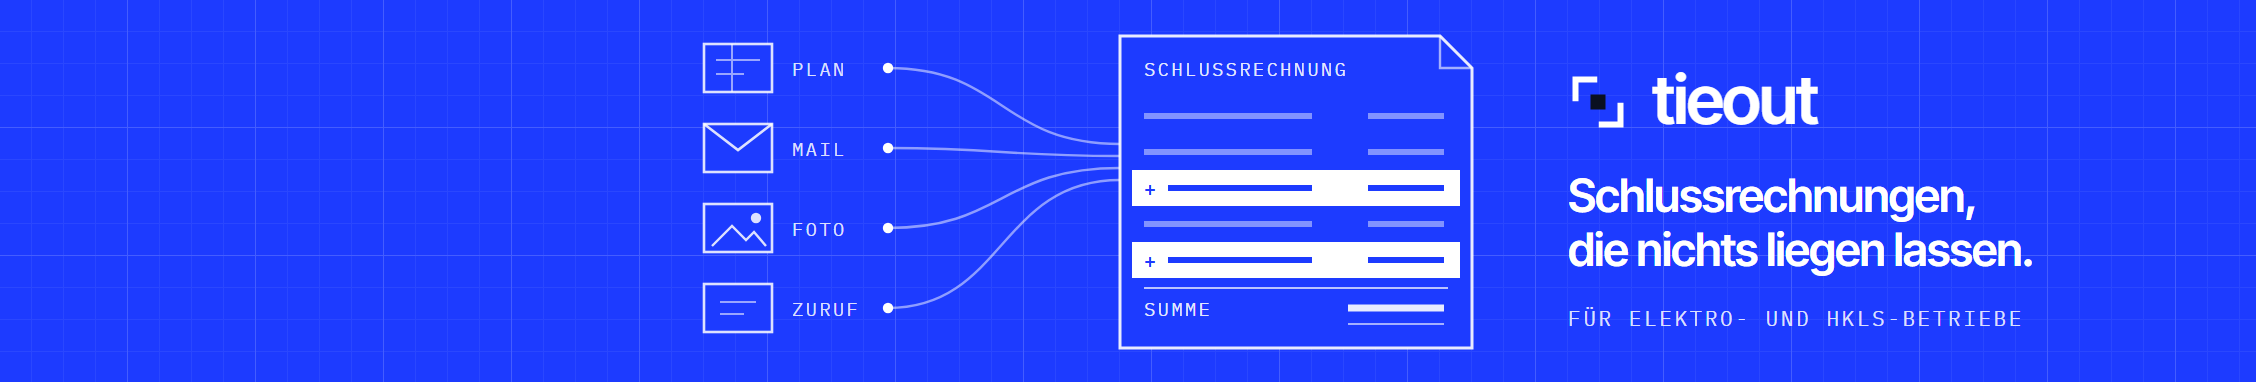
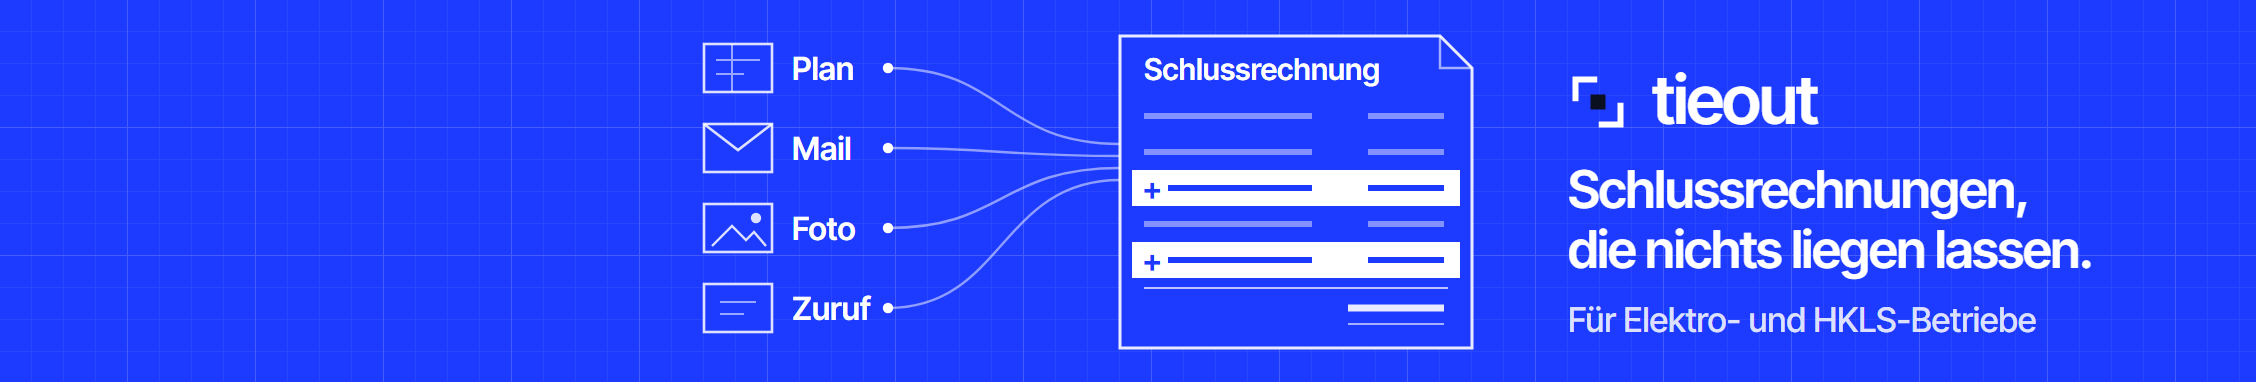
Gleiche Abstände zwischen allen Abschnitten (Hero angeglichen), LinkedIn-Upload-Dateien mit lesbarer Schrift
- Hero unten mit demselben Abstand wie alle Abschnitte
- LinkedIn: Logo auf reinem Weiß (400 und 1200 px), Titelbild 4512 x 764 weiß und blau
- Titelbild ohne feine Mono-Schrift, Texte in Inter Tight halbfett

diff --git a/brand/linkedin/tieout_firmenseite_rechnung_blau.html b/brand/linkedin/tieout_firmenseite_rechnung_blau.html
@@ -1,4 +1,4 @@
-<!doctype html><html><head><meta charset="utf-8"><link href="https://fonts.googleapis.com/css2?family=Inter+Tight:wght@600&family=IBM+Plex+Mono:wght@400;500&display=block" rel="stylesheet">
+<!doctype html><html><head><meta charset="utf-8"><link href="https://fonts.googleapis.com/css2?family=Inter+Tight:wght@500;600&family=IBM+Plex+Mono:wght@400;500&display=block" rel="stylesheet">
 <style>html,body{margin:0;padding:0} svg{display:block}</style></head>
 <body><svg xmlns="http://www.w3.org/2000/svg" width="1128" height="191" viewBox="0 0 1128 191"><rect width="1128" height="191" fill="#1D3BFF"/>
   <defs>
@@ -6,9 +6,9 @@
     <pattern id="g2" width="64" height="64" patternUnits="userSpaceOnUse"><path d="M64 0V64H0" fill="none" stroke="#FFFFFF" stroke-opacity=".12"/></pattern>
   </defs>
   <rect width="1128" height="191" fill="url(#g1)"/><rect width="1128" height="191" fill="url(#g2)"/>
-  <rect x="352" y="22" width="34" height="24" fill="#1D3BFF" stroke="#FFFFFF" stroke-opacity=".85" stroke-width="1.3"/><rect x="352" y="62" width="34" height="24" fill="#1D3BFF" stroke="#FFFFFF" stroke-opacity=".85" stroke-width="1.3"/><rect x="352" y="102" width="34" height="24" fill="#1D3BFF" stroke="#FFFFFF" stroke-opacity=".85" stroke-width="1.3"/><rect x="352" y="142" width="34" height="24" fill="#1D3BFF" stroke="#FFFFFF" stroke-opacity=".85" stroke-width="1.3"/><path d="M358 30H380M358 37H372M366 22V46" fill="none" stroke="#FFFFFF" stroke-opacity="0.55" stroke-width="1" /><path d="M352 62L369 75L386 62" fill="none" stroke="#FFFFFF" stroke-opacity="0.85" stroke-width="1.3" /><path d="M356 123L366 113L373 120L377 116L383 123" fill="none" stroke="#FFFFFF" stroke-opacity="0.85" stroke-width="1.2" /><circle cx="378" cy="109" r="2.6" fill="#FFFFFF" fill-opacity=".85"/><path d="M360 151H378M360 157H372" fill="none" stroke="#FFFFFF" stroke-opacity="0.55" stroke-width="1" /><text x="396" y="38" text-anchor="start" font-family="IBM Plex Mono" font-size="9.5" letter-spacing="1.1" fill="#FFFFFF" fill-opacity="0.85">PLAN</text><text x="396" y="78" text-anchor="start" font-family="IBM Plex Mono" font-size="9.5" letter-spacing="1.1" fill="#FFFFFF" fill-opacity="0.85">MAIL</text><text x="396" y="118" text-anchor="start" font-family="IBM Plex Mono" font-size="9.5" letter-spacing="1.1" fill="#FFFFFF" fill-opacity="0.85">FOTO</text><text x="396" y="158" text-anchor="start" font-family="IBM Plex Mono" font-size="9.5" letter-spacing="1.1" fill="#FFFFFF" fill-opacity="0.85">ZURUF</text><path d="M444 34 C 502 34, 500 72, 560 72" fill="none" stroke="#FFFFFF" stroke-opacity="0.5" stroke-width="1.2" /><circle cx="444" cy="34" r="2.6" fill="#FFFFFF"/><path d="M444 74 C 502 74, 500 78, 560 78" fill="none" stroke="#FFFFFF" stroke-opacity="0.5" stroke-width="1.2" /><circle cx="444" cy="74" r="2.6" fill="#FFFFFF"/><path d="M444 114 C 502 114, 500 84, 560 84" fill="none" stroke="#FFFFFF" stroke-opacity="0.5" stroke-width="1.2" /><circle cx="444" cy="114" r="2.6" fill="#FFFFFF"/><path d="M444 154 C 502 154, 500 90, 560 90" fill="none" stroke="#FFFFFF" stroke-opacity="0.5" stroke-width="1.2" /><circle cx="444" cy="154" r="2.6" fill="#FFFFFF"/><path d="M560 18H720L736 34V174H560Z" fill="#1D3BFF" stroke="#FFFFFF" stroke-opacity=".9" stroke-width="1.5"/><path d="M720 18V34H736" fill="none" stroke="#FFFFFF" stroke-opacity="0.6" stroke-width="1.2" /><text x="572" y="38" text-anchor="start" font-family="IBM Plex Mono" font-size="9.5" letter-spacing="1.1" fill="#FFFFFF" fill-opacity="0.9">SCHLUSSRECHNUNG</text><path d="M572 58H656M684 58H722" fill="none" stroke="#FFFFFF" stroke-opacity="0.45" stroke-width="3" /><path d="M572 76H656M684 76H722" fill="none" stroke="#FFFFFF" stroke-opacity="0.45" stroke-width="3" /><rect x="566" y="85" width="164" height="18" fill="#FFFFFF"/><text x="572" y="98" font-family="IBM Plex Mono" font-size="10" font-weight="500" fill="#1D3BFF">+</text><path d="M584 94H656M684 94H722" stroke="#1D3BFF" stroke-width="3"/><path d="M572 112H656M684 112H722" fill="none" stroke="#FFFFFF" stroke-opacity="0.45" stroke-width="3" /><rect x="566" y="121" width="164" height="18" fill="#FFFFFF"/><text x="572" y="134" font-family="IBM Plex Mono" font-size="10" font-weight="500" fill="#1D3BFF">+</text><path d="M584 130H656M684 130H722" stroke="#1D3BFF" stroke-width="3"/><path d="M572 144H724" fill="none" stroke="#FFFFFF" stroke-opacity="0.7" stroke-width="1" /><text x="572" y="158" text-anchor="start" font-family="IBM Plex Mono" font-size="9.5" letter-spacing="1.1" fill="#FFFFFF" fill-opacity="0.9">SUMME</text><path d="M674 154H722" fill="none" stroke="#FFFFFF" stroke-opacity="0.9" stroke-width="3.5" /><path d="M674 162H722" fill="none" stroke="#FFFFFF" stroke-opacity="0.6" stroke-width="1" />
+  <rect x="352" y="22" width="34" height="24" fill="#1D3BFF" stroke="#FFFFFF" stroke-opacity=".85" stroke-width="1.3"/><rect x="352" y="62" width="34" height="24" fill="#1D3BFF" stroke="#FFFFFF" stroke-opacity=".85" stroke-width="1.3"/><rect x="352" y="102" width="34" height="24" fill="#1D3BFF" stroke="#FFFFFF" stroke-opacity=".85" stroke-width="1.3"/><rect x="352" y="142" width="34" height="24" fill="#1D3BFF" stroke="#FFFFFF" stroke-opacity=".85" stroke-width="1.3"/><path d="M358 30H380M358 37H372M366 22V46" fill="none" stroke="#FFFFFF" stroke-opacity="0.55" stroke-width="1" /><path d="M352 62L369 75L386 62" fill="none" stroke="#FFFFFF" stroke-opacity="0.85" stroke-width="1.3" /><path d="M356 123L366 113L373 120L377 116L383 123" fill="none" stroke="#FFFFFF" stroke-opacity="0.85" stroke-width="1.2" /><circle cx="378" cy="109" r="2.6" fill="#FFFFFF" fill-opacity=".85"/><path d="M360 151H378M360 157H372" fill="none" stroke="#FFFFFF" stroke-opacity="0.55" stroke-width="1" /><text x="396" y="40" font-family="Inter Tight" font-weight="600" font-size="16" fill="#FFFFFF">Plan</text><text x="396" y="80" font-family="Inter Tight" font-weight="600" font-size="16" fill="#FFFFFF">Mail</text><text x="396" y="120" font-family="Inter Tight" font-weight="600" font-size="16" fill="#FFFFFF">Foto</text><text x="396" y="160" font-family="Inter Tight" font-weight="600" font-size="16" fill="#FFFFFF">Zuruf</text><path d="M444 34 C 502 34, 500 72, 560 72" fill="none" stroke="#FFFFFF" stroke-opacity="0.5" stroke-width="1.2" /><circle cx="444" cy="34" r="2.6" fill="#FFFFFF"/><path d="M444 74 C 502 74, 500 78, 560 78" fill="none" stroke="#FFFFFF" stroke-opacity="0.5" stroke-width="1.2" /><circle cx="444" cy="74" r="2.6" fill="#FFFFFF"/><path d="M444 114 C 502 114, 500 84, 560 84" fill="none" stroke="#FFFFFF" stroke-opacity="0.5" stroke-width="1.2" /><circle cx="444" cy="114" r="2.6" fill="#FFFFFF"/><path d="M444 154 C 502 154, 500 90, 560 90" fill="none" stroke="#FFFFFF" stroke-opacity="0.5" stroke-width="1.2" /><circle cx="444" cy="154" r="2.6" fill="#FFFFFF"/><path d="M560 18H720L736 34V174H560Z" fill="#1D3BFF" stroke="#FFFFFF" stroke-opacity=".9" stroke-width="1.5"/><path d="M720 18V34H736" fill="none" stroke="#FFFFFF" stroke-opacity="0.6" stroke-width="1.2" /><text x="572" y="40" font-family="Inter Tight" font-weight="600" font-size="15" fill="#FFFFFF">Schlussrechnung</text><path d="M572 58H656M684 58H722" fill="none" stroke="#FFFFFF" stroke-opacity="0.45" stroke-width="3" /><path d="M572 76H656M684 76H722" fill="none" stroke="#FFFFFF" stroke-opacity="0.45" stroke-width="3" /><rect x="566" y="85" width="164" height="18" fill="#FFFFFF"/><text x="571" y="100" font-family="Inter Tight" font-size="16" font-weight="700" fill="#1D3BFF">+</text><path d="M584 94H656M684 94H722" stroke="#1D3BFF" stroke-width="3"/><path d="M572 112H656M684 112H722" fill="none" stroke="#FFFFFF" stroke-opacity="0.45" stroke-width="3" /><rect x="566" y="121" width="164" height="18" fill="#FFFFFF"/><text x="571" y="136" font-family="Inter Tight" font-size="16" font-weight="700" fill="#1D3BFF">+</text><path d="M584 130H656M684 130H722" stroke="#1D3BFF" stroke-width="3"/><path d="M572 144H724" fill="none" stroke="#FFFFFF" stroke-opacity="0.7" stroke-width="1" /><path d="M674 154H722" fill="none" stroke="#FFFFFF" stroke-opacity="0.9" stroke-width="3.5" /><path d="M674 162H722" fill="none" stroke="#FFFFFF" stroke-opacity="0.6" stroke-width="1" />
   <g transform="translate(784,36) scale(0.9375)"><path d="M4 14V4h10M28 18v10H18" stroke="#FFFFFF" stroke-width="3.2" fill="none" stroke-linecap="square"/><rect x="12" y="12" width="8" height="8" fill="#0A1020"/></g>
   <text x="826" y="62" font-family="Inter Tight" font-weight="600" font-size="34" letter-spacing="-1" fill="#FFFFFF">tieout</text>
-  <text x="784" y="106" font-family="Inter Tight" font-weight="600" font-size="23" letter-spacing="-.5" fill="#FFFFFF">Schlussrechnungen,</text>
-  <text x="784" y="133" font-family="Inter Tight" font-weight="600" font-size="23" letter-spacing="-.5" fill="#FFFFFF">die nichts liegen lassen.</text>
-  <text x="784" y="163" font-family="IBM Plex Mono" font-size="10.5" letter-spacing="1.3" fill="#FFFFFF" fill-opacity=".85">FÜR ELEKTRO- UND HKLS-BETRIEBE</text></svg></body></html>
+  <text x="784" y="104" font-family="Inter Tight" font-weight="600" font-size="26" letter-spacing="-.6" fill="#FFFFFF">Schlussrechnungen,</text>
+  <text x="784" y="134" font-family="Inter Tight" font-weight="600" font-size="26" letter-spacing="-.6" fill="#FFFFFF">die nichts liegen lassen.</text>
+  <text x="784" y="166" font-family="Inter Tight" font-weight="500" font-size="17" fill="#FFFFFF" fill-opacity=".85">Für Elektro- und HKLS-Betriebe</text></svg></body></html>

diff --git a/brand/linkedin/tieout_firmenseite_rechnung_weiss.html b/brand/linkedin/tieout_firmenseite_rechnung_weiss.html
@@ -1,4 +1,4 @@
-<!doctype html><html><head><meta charset="utf-8"><link href="https://fonts.googleapis.com/css2?family=Inter+Tight:wght@600&family=IBM+Plex+Mono:wght@400;500&display=block" rel="stylesheet">
+<!doctype html><html><head><meta charset="utf-8"><link href="https://fonts.googleapis.com/css2?family=Inter+Tight:wght@500;600&family=IBM+Plex+Mono:wght@400;500&display=block" rel="stylesheet">
 <style>html,body{margin:0;padding:0} svg{display:block}</style></head>
 <body><svg xmlns="http://www.w3.org/2000/svg" width="1128" height="191" viewBox="0 0 1128 191"><rect width="1128" height="191" fill="#F4F6F9"/>
   <defs>
@@ -6,9 +6,9 @@
     <pattern id="g2" width="64" height="64" patternUnits="userSpaceOnUse"><path d="M64 0V64H0" fill="none" stroke="#0A1020" stroke-opacity=".12"/></pattern>
   </defs>
   <rect width="1128" height="191" fill="url(#g1)"/><rect width="1128" height="191" fill="url(#g2)"/>
-  <rect x="352" y="22" width="34" height="24" fill="#F4F6F9" stroke="#0A1020" stroke-opacity=".85" stroke-width="1.3"/><rect x="352" y="62" width="34" height="24" fill="#F4F6F9" stroke="#0A1020" stroke-opacity=".85" stroke-width="1.3"/><rect x="352" y="102" width="34" height="24" fill="#F4F6F9" stroke="#0A1020" stroke-opacity=".85" stroke-width="1.3"/><rect x="352" y="142" width="34" height="24" fill="#F4F6F9" stroke="#0A1020" stroke-opacity=".85" stroke-width="1.3"/><path d="M358 30H380M358 37H372M366 22V46" fill="none" stroke="#0A1020" stroke-opacity="0.55" stroke-width="1" /><path d="M352 62L369 75L386 62" fill="none" stroke="#0A1020" stroke-opacity="0.85" stroke-width="1.3" /><path d="M356 123L366 113L373 120L377 116L383 123" fill="none" stroke="#0A1020" stroke-opacity="0.85" stroke-width="1.2" /><circle cx="378" cy="109" r="2.6" fill="#0A1020" fill-opacity=".85"/><path d="M360 151H378M360 157H372" fill="none" stroke="#0A1020" stroke-opacity="0.55" stroke-width="1" /><text x="396" y="38" text-anchor="start" font-family="IBM Plex Mono" font-size="9.5" letter-spacing="1.1" fill="#0A1020" fill-opacity="0.85">PLAN</text><text x="396" y="78" text-anchor="start" font-family="IBM Plex Mono" font-size="9.5" letter-spacing="1.1" fill="#0A1020" fill-opacity="0.85">MAIL</text><text x="396" y="118" text-anchor="start" font-family="IBM Plex Mono" font-size="9.5" letter-spacing="1.1" fill="#0A1020" fill-opacity="0.85">FOTO</text><text x="396" y="158" text-anchor="start" font-family="IBM Plex Mono" font-size="9.5" letter-spacing="1.1" fill="#0A1020" fill-opacity="0.85">ZURUF</text><path d="M444 34 C 502 34, 500 72, 560 72" fill="none" stroke="#0A1020" stroke-opacity="0.5" stroke-width="1.2" /><circle cx="444" cy="34" r="2.6" fill="#0A1020"/><path d="M444 74 C 502 74, 500 78, 560 78" fill="none" stroke="#0A1020" stroke-opacity="0.5" stroke-width="1.2" /><circle cx="444" cy="74" r="2.6" fill="#0A1020"/><path d="M444 114 C 502 114, 500 84, 560 84" fill="none" stroke="#0A1020" stroke-opacity="0.5" stroke-width="1.2" /><circle cx="444" cy="114" r="2.6" fill="#0A1020"/><path d="M444 154 C 502 154, 500 90, 560 90" fill="none" stroke="#0A1020" stroke-opacity="0.5" stroke-width="1.2" /><circle cx="444" cy="154" r="2.6" fill="#0A1020"/><path d="M560 18H720L736 34V174H560Z" fill="#F4F6F9" stroke="#0A1020" stroke-opacity=".9" stroke-width="1.5"/><path d="M720 18V34H736" fill="none" stroke="#0A1020" stroke-opacity="0.6" stroke-width="1.2" /><text x="572" y="38" text-anchor="start" font-family="IBM Plex Mono" font-size="9.5" letter-spacing="1.1" fill="#0A1020" fill-opacity="0.9">SCHLUSSRECHNUNG</text><path d="M572 58H656M684 58H722" fill="none" stroke="#0A1020" stroke-opacity="0.45" stroke-width="3" /><path d="M572 76H656M684 76H722" fill="none" stroke="#0A1020" stroke-opacity="0.45" stroke-width="3" /><rect x="566" y="85" width="164" height="18" fill="#1D3BFF"/><text x="572" y="98" font-family="IBM Plex Mono" font-size="10" font-weight="500" fill="#FFFFFF">+</text><path d="M584 94H656M684 94H722" stroke="#FFFFFF" stroke-width="3"/><path d="M572 112H656M684 112H722" fill="none" stroke="#0A1020" stroke-opacity="0.45" stroke-width="3" /><rect x="566" y="121" width="164" height="18" fill="#1D3BFF"/><text x="572" y="134" font-family="IBM Plex Mono" font-size="10" font-weight="500" fill="#FFFFFF">+</text><path d="M584 130H656M684 130H722" stroke="#FFFFFF" stroke-width="3"/><path d="M572 144H724" fill="none" stroke="#0A1020" stroke-opacity="0.7" stroke-width="1" /><text x="572" y="158" text-anchor="start" font-family="IBM Plex Mono" font-size="9.5" letter-spacing="1.1" fill="#0A1020" fill-opacity="0.9">SUMME</text><path d="M674 154H722" fill="none" stroke="#0A1020" stroke-opacity="0.9" stroke-width="3.5" /><path d="M674 162H722" fill="none" stroke="#0A1020" stroke-opacity="0.6" stroke-width="1" />
+  <rect x="352" y="22" width="34" height="24" fill="#F4F6F9" stroke="#0A1020" stroke-opacity=".85" stroke-width="1.3"/><rect x="352" y="62" width="34" height="24" fill="#F4F6F9" stroke="#0A1020" stroke-opacity=".85" stroke-width="1.3"/><rect x="352" y="102" width="34" height="24" fill="#F4F6F9" stroke="#0A1020" stroke-opacity=".85" stroke-width="1.3"/><rect x="352" y="142" width="34" height="24" fill="#F4F6F9" stroke="#0A1020" stroke-opacity=".85" stroke-width="1.3"/><path d="M358 30H380M358 37H372M366 22V46" fill="none" stroke="#0A1020" stroke-opacity="0.55" stroke-width="1" /><path d="M352 62L369 75L386 62" fill="none" stroke="#0A1020" stroke-opacity="0.85" stroke-width="1.3" /><path d="M356 123L366 113L373 120L377 116L383 123" fill="none" stroke="#0A1020" stroke-opacity="0.85" stroke-width="1.2" /><circle cx="378" cy="109" r="2.6" fill="#0A1020" fill-opacity=".85"/><path d="M360 151H378M360 157H372" fill="none" stroke="#0A1020" stroke-opacity="0.55" stroke-width="1" /><text x="396" y="40" font-family="Inter Tight" font-weight="600" font-size="16" fill="#0A1020">Plan</text><text x="396" y="80" font-family="Inter Tight" font-weight="600" font-size="16" fill="#0A1020">Mail</text><text x="396" y="120" font-family="Inter Tight" font-weight="600" font-size="16" fill="#0A1020">Foto</text><text x="396" y="160" font-family="Inter Tight" font-weight="600" font-size="16" fill="#0A1020">Zuruf</text><path d="M444 34 C 502 34, 500 72, 560 72" fill="none" stroke="#0A1020" stroke-opacity="0.5" stroke-width="1.2" /><circle cx="444" cy="34" r="2.6" fill="#0A1020"/><path d="M444 74 C 502 74, 500 78, 560 78" fill="none" stroke="#0A1020" stroke-opacity="0.5" stroke-width="1.2" /><circle cx="444" cy="74" r="2.6" fill="#0A1020"/><path d="M444 114 C 502 114, 500 84, 560 84" fill="none" stroke="#0A1020" stroke-opacity="0.5" stroke-width="1.2" /><circle cx="444" cy="114" r="2.6" fill="#0A1020"/><path d="M444 154 C 502 154, 500 90, 560 90" fill="none" stroke="#0A1020" stroke-opacity="0.5" stroke-width="1.2" /><circle cx="444" cy="154" r="2.6" fill="#0A1020"/><path d="M560 18H720L736 34V174H560Z" fill="#F4F6F9" stroke="#0A1020" stroke-opacity=".9" stroke-width="1.5"/><path d="M720 18V34H736" fill="none" stroke="#0A1020" stroke-opacity="0.6" stroke-width="1.2" /><text x="572" y="40" font-family="Inter Tight" font-weight="600" font-size="15" fill="#0A1020">Schlussrechnung</text><path d="M572 58H656M684 58H722" fill="none" stroke="#0A1020" stroke-opacity="0.45" stroke-width="3" /><path d="M572 76H656M684 76H722" fill="none" stroke="#0A1020" stroke-opacity="0.45" stroke-width="3" /><rect x="566" y="85" width="164" height="18" fill="#1D3BFF"/><text x="571" y="100" font-family="Inter Tight" font-size="16" font-weight="700" fill="#FFFFFF">+</text><path d="M584 94H656M684 94H722" stroke="#FFFFFF" stroke-width="3"/><path d="M572 112H656M684 112H722" fill="none" stroke="#0A1020" stroke-opacity="0.45" stroke-width="3" /><rect x="566" y="121" width="164" height="18" fill="#1D3BFF"/><text x="571" y="136" font-family="Inter Tight" font-size="16" font-weight="700" fill="#FFFFFF">+</text><path d="M584 130H656M684 130H722" stroke="#FFFFFF" stroke-width="3"/><path d="M572 144H724" fill="none" stroke="#0A1020" stroke-opacity="0.7" stroke-width="1" /><path d="M674 154H722" fill="none" stroke="#0A1020" stroke-opacity="0.9" stroke-width="3.5" /><path d="M674 162H722" fill="none" stroke="#0A1020" stroke-opacity="0.6" stroke-width="1" />
   <g transform="translate(784,36) scale(0.9375)"><path d="M4 14V4h10M28 18v10H18" stroke="#0A1020" stroke-width="3.2" fill="none" stroke-linecap="square"/><rect x="12" y="12" width="8" height="8" fill="#1D3BFF"/></g>
   <text x="826" y="62" font-family="Inter Tight" font-weight="600" font-size="34" letter-spacing="-1" fill="#0A1020">tieout</text>
-  <text x="784" y="106" font-family="Inter Tight" font-weight="600" font-size="23" letter-spacing="-.5" fill="#0A1020">Schlussrechnungen,</text>
-  <text x="784" y="133" font-family="Inter Tight" font-weight="600" font-size="23" letter-spacing="-.5" fill="#1D3BFF">die nichts liegen lassen.</text>
-  <text x="784" y="163" font-family="IBM Plex Mono" font-size="10.5" letter-spacing="1.3" fill="#0A1020" fill-opacity=".85">FÜR ELEKTRO- UND HKLS-BETRIEBE</text></svg></body></html>
+  <text x="784" y="104" font-family="Inter Tight" font-weight="600" font-size="26" letter-spacing="-.6" fill="#0A1020">Schlussrechnungen,</text>
+  <text x="784" y="134" font-family="Inter Tight" font-weight="600" font-size="26" letter-spacing="-.6" fill="#1D3BFF">die nichts liegen lassen.</text>
+  <text x="784" y="166" font-family="Inter Tight" font-weight="500" font-size="17" fill="#0A1020" fill-opacity=".85">Für Elektro- und HKLS-Betriebe</text></svg></body></html>

diff --git a/website/app/globals.css b/website/app/globals.css
@@ -117,7 +117,8 @@ img { display: block; max-width: 100%; }
 @media (max-width: 1239px) { .mnav { display: none; } }
 
 /* Hero */
-.hero { min-height: 100vh; display: flex; align-items: center; padding: calc(var(--header) + 32px) 0 64px; }
+/* Unten derselbe Abstand wie bei allen Abschnitten, damit die Abstände zwischen den Abschnitten gleich sind */
+.hero { display: flex; align-items: center; padding: calc(var(--header) + 32px) 0 clamp(64px, 8vw, 104px); }
 .hero__grid { display: grid; grid-template-columns: minmax(0, 0.95fr) minmax(0, 1.05fr); gap: 56px; align-items: center; }
 .hero__title .l2 { color: var(--ultra); display: block; }
 .hero__sub { margin: 26px 0 32px; max-width: 520px; }

diff --git a/brand/linkedin/tieout_firmenseite_blau.html b/brand/linkedin/tieout_firmenseite_blau.html
@@ -1,4 +1,4 @@
-<!doctype html><html><head><meta charset="utf-8"><link href="https://fonts.googleapis.com/css2?family=Inter+Tight:wght@600&family=IBM+Plex+Mono:wght@400;500&display=block" rel="stylesheet">
+<!doctype html><html><head><meta charset="utf-8"><link href="https://fonts.googleapis.com/css2?family=Inter+Tight:wght@500;600&family=IBM+Plex+Mono:wght@400;500&display=block" rel="stylesheet">
 <style>html,body{margin:0;padding:0} svg{display:block}</style></head>
 <body><svg xmlns="http://www.w3.org/2000/svg" width="1128" height="191" viewBox="0 0 1128 191"><rect width="1128" height="191" fill="#1D3BFF"/>
   <defs>

diff --git a/brand/linkedin/tieout_firmenseite_weiss.html b/brand/linkedin/tieout_firmenseite_weiss.html
@@ -1,4 +1,4 @@
-<!doctype html><html><head><meta charset="utf-8"><link href="https://fonts.googleapis.com/css2?family=Inter+Tight:wght@600&family=IBM+Plex+Mono:wght@400;500&display=block" rel="stylesheet">
+<!doctype html><html><head><meta charset="utf-8"><link href="https://fonts.googleapis.com/css2?family=Inter+Tight:wght@500;600&family=IBM+Plex+Mono:wght@400;500&display=block" rel="stylesheet">
 <style>html,body{margin:0;padding:0} svg{display:block}</style></head>
 <body><svg xmlns="http://www.w3.org/2000/svg" width="1128" height="191" viewBox="0 0 1128 191"><rect width="1128" height="191" fill="#F4F6F9"/>
   <defs>

diff --git a/brand/linkedin/firmenseite.py b/brand/linkedin/firmenseite.py
@@ -7,7 +7,7 @@ import os, subprocess
 OUT = os.path.dirname(os.path.abspath(__file__))
 W, H = 1128, 191
 PAPER, INK, ULTRA = "#F4F6F9", "#0A1020", "#1D3BFF"
-FONTS = '<link href="https://fonts.googleapis.com/css2?family=Inter+Tight:wght@600&family=IBM+Plex+Mono:wght@400;500&display=block" rel="stylesheet">'
+FONTS = '<link href="https://fonts.googleapis.com/css2?family=Inter+Tight:wght@500;600&family=IBM+Plex+Mono:wght@400;500&display=block" rel="stylesheet">'
 
 
 def banner(bg, line, ink, accent, mono):
@@ -49,8 +49,8 @@ def rechnung(bg, line, ink, accent, mono, markdot, hl, hltext):
     g.append(l(f"M{x0+4} {ys[2]+9}L{x0+14} {ys[2]-1}L{x0+21} {ys[2]+6}L{x0+25} {ys[2]+2}L{x0+31} {ys[2]+9}", .85, 1.2))
     g.append(f'<circle cx="{x0+26}" cy="{ys[2]-5}" r="2.6" fill="{line}" fill-opacity=".85"/>')
     g.append(l(f"M{x0+8} {ys[3]-3}H{x0+26}M{x0+8} {ys[3]+3}H{x0+20}", .55, 1))
-    for y, lab in zip(ys, ["PLAN", "MAIL", "FOTO", "ZURUF"]):
-        g.append(t(x0 + 44, y + 4, lab, 9.5, .85))
+    for y, lab in zip(ys, ["Plan", "Mail", "Foto", "Zuruf"]):
+        g.append(f'<text x="{x0 + 44}" y="{y + 6}" font-family="Inter Tight" font-weight="600" font-size="16" fill="{line}">{lab}</text>')
     # Linien in die Rechnung
     ix, iy0, iw, ih = 560, 18, 176, 156
     for i, y in enumerate(ys):
@@ -60,19 +60,18 @@ def rechnung(bg, line, ink, accent, mono, markdot, hl, hltext):
     # Rechnungsblatt
     g.append(f'<path d="M{ix} {iy0}H{ix+iw-16}L{ix+iw} {iy0+16}V{iy0+ih}H{ix}Z" fill="{bg}" stroke="{line}" stroke-opacity=".9" stroke-width="1.5"/>')
     g.append(l(f"M{ix+iw-16} {iy0}V{iy0+16}H{ix+iw}", .6, 1.2))
-    g.append(t(ix + 12, iy0 + 20, "SCHLUSSRECHNUNG", 9.5, .9))
+    g.append(f'<text x="{ix + 12}" y="{iy0 + 22}" font-family="Inter Tight" font-weight="600" font-size="15" fill="{line}">Schlussrechnung</text>')
     rows = [False, False, True, False, True]
     for i, add in enumerate(rows):
         y = iy0 + 42 + i * 18
         if add:
             g.append(f'<rect x="{ix+6}" y="{y-11}" width="{iw-12}" height="18" fill="{hl}"/>')
-            g.append(f'<text x="{ix+12}" y="{y+2}" font-family="IBM Plex Mono" font-size="10" font-weight="500" fill="{hltext}">+</text>')
+            g.append(f'<text x="{ix+11}" y="{y+4}" font-family="Inter Tight" font-size="16" font-weight="700" fill="{hltext}">+</text>')
             g.append(f'<path d="M{ix+24} {y-2}H{ix+96}M{ix+iw-52} {y-2}H{ix+iw-14}" stroke="{hltext}" stroke-width="3"/>')
         else:
             g.append(l(f"M{ix+12} {y-2}H{ix+96}M{ix+iw-52} {y-2}H{ix+iw-14}", .45, 3))
     yt = iy0 + ih - 18
     g.append(l(f"M{ix+12} {yt-12}H{ix+iw-12}", .7, 1))
-    g.append(t(ix + 12, yt + 2, "SUMME", 9.5, .9))
     g.append(l(f"M{ix+iw-62} {yt-2}H{ix+iw-14}", .9, 3.5))
     g.append(l(f"M{ix+iw-62} {yt+6}H{ix+iw-14}", .6, 1))
     x1 = 784
@@ -85,9 +84,9 @@ def rechnung(bg, line, ink, accent, mono, markdot, hl, hltext):
   {"".join(g)}
   {mark(x1, 36, 30, ink, markdot)}
   <text x="{x1+42}" y="62" font-family="Inter Tight" font-weight="600" font-size="34" letter-spacing="-1" fill="{ink}">tieout</text>
-  <text x="{x1}" y="106" font-family="Inter Tight" font-weight="600" font-size="23" letter-spacing="-.5" fill="{ink}">Schlussrechnungen,</text>
-  <text x="{x1}" y="133" font-family="Inter Tight" font-weight="600" font-size="23" letter-spacing="-.5" fill="{accent}">die nichts liegen lassen.</text>
-  <text x="{x1}" y="163" font-family="IBM Plex Mono" font-size="10.5" letter-spacing="1.3" fill="{mono}" fill-opacity=".85">FÜR ELEKTRO- UND HKLS-BETRIEBE</text>'''
+  <text x="{x1}" y="104" font-family="Inter Tight" font-weight="600" font-size="26" letter-spacing="-.6" fill="{ink}">Schlussrechnungen,</text>
+  <text x="{x1}" y="134" font-family="Inter Tight" font-weight="600" font-size="26" letter-spacing="-.6" fill="{accent}">die nichts liegen lassen.</text>
+  <text x="{x1}" y="166" font-family="Inter Tight" font-weight="500" font-size="17" fill="{mono}" fill-opacity=".85">Für Elektro- und HKLS-Betriebe</text>'''
 
 
 DESIGNS = {

diff --git a/brand/linkedin/export.py b/brand/linkedin/export.py
@@ -1,0 +1,39 @@
+"""LinkedIn-Dateien zum Hochladen: Logo (quadratisch, reines Weiß) und Titelbild der Firmenseite.
+
+Logo: 400 x 400 (LinkedIn-Empfehlung) und 1200 x 1200. Titelbild: 1128 x 191 (Empfehlung), Export 4-fach = 4512 x 764.
+Ausgabe: brand/linkedin/upload/
+"""
+import os, subprocess
+
+HERE = os.path.dirname(os.path.abspath(__file__))
+OUT = os.path.join(HERE, "upload")
+os.makedirs(OUT, exist_ok=True)
+CHROME = r"C:\Program Files\Google\Chrome\Application\chrome.exe"
+
+LOGO = '''<svg xmlns="http://www.w3.org/2000/svg" width="400" height="400" viewBox="0 0 400 400">
+  <rect width="400" height="400" fill="#FFFFFF"/>
+  <g transform="translate(80,80) scale(7.5)">
+    <path d="M4 14V4h10M28 18v10H18" stroke="#0A1020" stroke-width="3.2" fill="none" stroke-linecap="square"/>
+    <rect x="12" y="12" width="8" height="8" fill="#1D3BFF"/>
+  </g>
+</svg>'''
+
+
+def render(svg_or_html, w, h, scale, name):
+    page = svg_or_html if svg_or_html.lstrip().startswith("<!doctype") else (
+        f'<!doctype html><html><head><meta charset="utf-8"><style>html,body{{margin:0;background:#fff}} svg{{display:block}}</style></head><body>{svg_or_html}</body></html>')
+    hp = os.path.join(OUT, name + ".html")
+    open(hp, "w", encoding="utf-8").write(page)
+    png = os.path.join(OUT, name + ".png")
+    subprocess.run([CHROME, "--headless=new", "--disable-gpu", "--hide-scrollbars", f"--force-device-scale-factor={scale}",
+                    f"--window-size={w},{h}", "--virtual-time-budget=6000", f"--screenshot={png}", "file:///" + hp.replace("\\", "/")],
+                   check=True, capture_output=True, timeout=90)
+    os.remove(hp)
+    print(png)
+
+
+render(LOGO, 400, 400, 1, "tieout_linkedin_logo_400")
+render(LOGO, 400, 400, 3, "tieout_linkedin_logo_1200")
+for v in ("weiss", "blau"):
+    html = open(os.path.join(HERE, f"tieout_firmenseite_rechnung_{v}.html"), encoding="utf-8").read()
+    render(html, 1128, 191, 4, f"tieout_linkedin_titelbild_{v}_4512x764")
